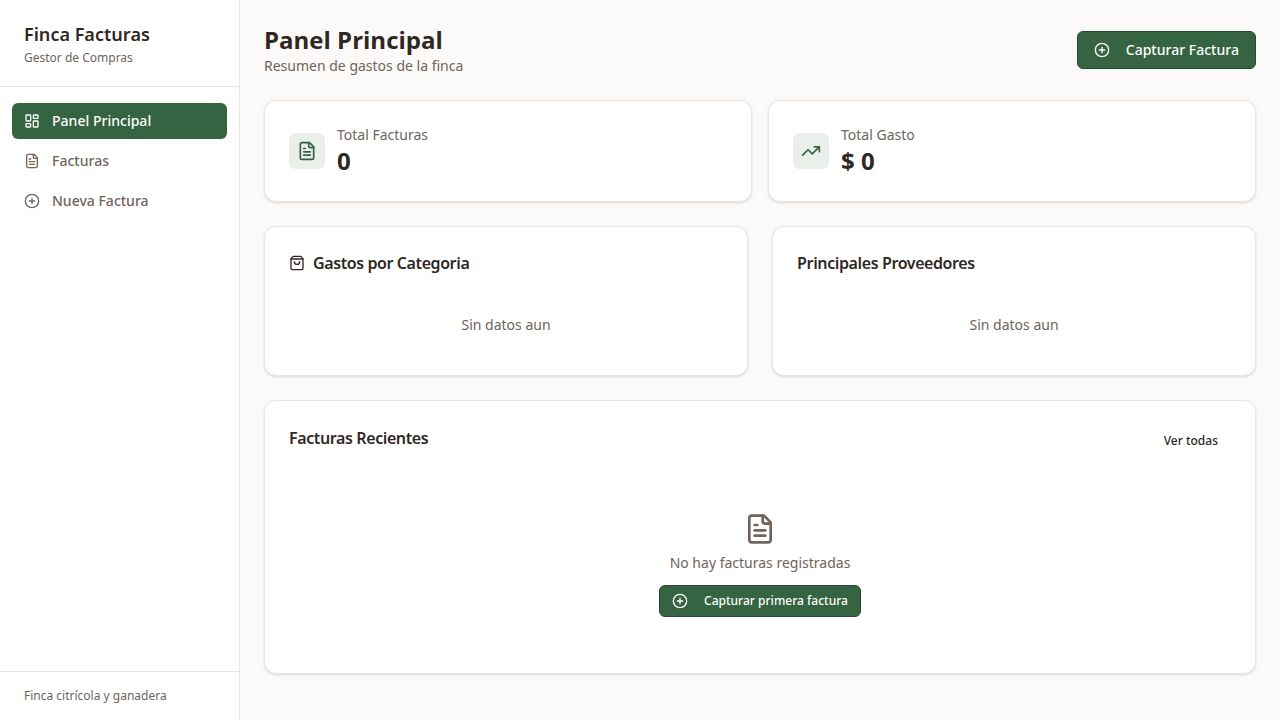
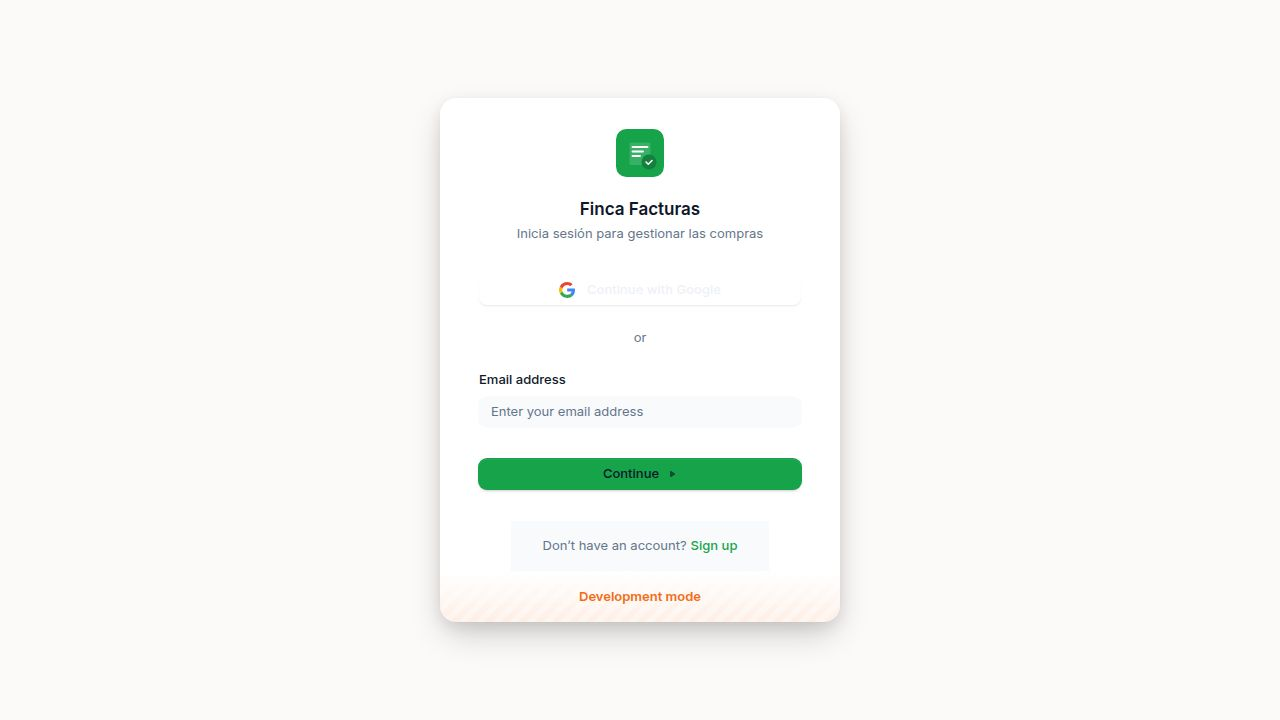
Add mandatory field validation to the new invoice form
Implement frontend validation for all header fields and individual item fields in the new invoice form. Fields marked as required will now display a red border and a "Campo requerido" message if left empty when attempting to save. A toast notification will also appear, preventing the invoice from being saved until all mandatory fields are completed.

Replit-Commit-Author: Agent
Replit-Commit-Session-Id: d9045a1c-a8dd-442b-99ed-3cd4f1b10021
Replit-Commit-Checkpoint-Type: full_checkpoint
Replit-Commit-Event-Id: d589d007-2d7a-4093-9ce4-2aec323ea90e
Replit-Commit-Screenshot-Url: https://storage.googleapis.com/screenshot-production-us-central1/884ce998-dde4-4766-95e8-f70527e4d566/d9045a1c-a8dd-442b-99ed-3cd4f1b10021/ijIDs6Q
Replit-Helium-Checkpoint-Created: true

diff --git a/artifacts/finca-facturas/src/pages/invoice-new.tsx b/artifacts/finca-facturas/src/pages/invoice-new.tsx
@@ -16,6 +16,7 @@ import {
 import { Card, CardContent, CardHeader, CardTitle } from "@/components/ui/card";
 import { Badge } from "@/components/ui/badge";
 import { Skeleton } from "@/components/ui/skeleton";
+import { cn } from "@/lib/utils";
 import { Camera, Upload, Plus, Trash2, ArrowLeft, Loader2, CheckCircle, ShieldCheck } from "lucide-react";
 import { useToast } from "@/hooks/use-toast";
 import { CATEGORY_OPTIONS } from "@/lib/categories";
@@ -60,7 +61,7 @@ export function InvoiceNew() {
   const [items, setItems] = useState<ItemRow[]>([emptyItem()]);
   const [extracting, setExtracting] = useState(false);
   const [extracted, setExtracted] = useState(false);
-
+  const [showErrors, setShowErrors] = useState(false);
   const [validating, setValidating] = useState(false);
 
   const extractMutation = useExtractInvoiceData();
@@ -185,32 +186,51 @@ export function InvoiceNew() {
     setItems(items.filter((_, i) => i !== idx));
   };
 
+  const isItemValid = (item: ItemRow) =>
+    item.name.trim() && item.description.trim() && item.quantity && item.unit.trim() && item.unitPrice && item.totalPrice;
+
   const handleSave = () => {
-    if (!supplier.trim()) {
-      toast({ title: "El proveedor es requerido", variant: "destructive" });
+    setShowErrors(true);
+
+    const headerInvalid =
+      !supplier.trim() ||
+      !invoiceNumber.trim() ||
+      !date ||
+      !buyer ||
+      !totalAmount ||
+      !description.trim() ||
+      !notes.trim();
+
+    const validItems = items.filter((i) => i.name.trim() || i.description.trim());
+    const itemsInvalid = validItems.length === 0 || validItems.some((i) => !isItemValid(i));
+
+    if (headerInvalid || itemsInvalid) {
+      toast({
+        title: "Campos incompletos",
+        description: "Completa todos los campos obligatorios antes de guardar.",
+        variant: "destructive",
+      });
       return;
     }
-
-    const filteredItems = items.filter((item) => item.name.trim() || item.description.trim());
 
     createMutation.mutate({
       data: {
         supplier: supplier.trim(),
-        invoiceNumber: invoiceNumber.trim() || null,
-        date: date || null,
+        invoiceNumber: invoiceNumber.trim(),
+        date,
         category,
-        totalAmount: totalAmount ? parseFloat(totalAmount) : null,
+        totalAmount: parseFloat(totalAmount),
         imageBase64: imageBase64 || null,
-        description: description.trim() || null,
-        notes: notes.trim() || null,
-        buyer: buyer || null,
-        items: filteredItems.map((item) => ({
-          name: item.name.trim() || item.description.trim(),
-          description: item.description.trim() || item.name.trim(),
-          quantity: item.quantity ? parseFloat(item.quantity) : null,
-          unit: item.unit.trim() || null,
-          unitPrice: item.unitPrice ? parseFloat(item.unitPrice) : null,
-          totalPrice: item.totalPrice ? parseFloat(item.totalPrice) : null,
+        description: description.trim(),
+        notes: notes.trim(),
+        buyer,
+        items: validItems.map((item) => ({
+          name: item.name.trim(),
+          description: item.description.trim(),
+          quantity: parseFloat(item.quantity),
+          unit: item.unit.trim(),
+          unitPrice: parseFloat(item.unitPrice),
+          totalPrice: parseFloat(item.totalPrice),
         })),
       },
     });
@@ -339,30 +359,36 @@ export function InvoiceNew() {
                 onChange={(e) => setSupplier(e.target.value)}
                 placeholder="Nombre de la ferreteria o tienda"
                 data-testid="input-supplier"
+                className={cn(showErrors && !supplier.trim() && "border-red-500 focus-visible:ring-red-500")}
               />
+              {showErrors && !supplier.trim() && <p className="text-xs text-red-500">Campo requerido</p>}
             </div>
             <div className="space-y-1.5">
-              <Label htmlFor="invoiceNumber">Numero de Factura</Label>
+              <Label htmlFor="invoiceNumber">Numero de Factura *</Label>
               <Input
                 id="invoiceNumber"
                 value={invoiceNumber}
                 onChange={(e) => setInvoiceNumber(e.target.value)}
                 placeholder="Ej: 001-2024"
                 data-testid="input-invoice-number"
+                className={cn(showErrors && !invoiceNumber.trim() && "border-red-500 focus-visible:ring-red-500")}
               />
+              {showErrors && !invoiceNumber.trim() && <p className="text-xs text-red-500">Campo requerido</p>}
             </div>
             <div className="space-y-1.5">
-              <Label htmlFor="date">Fecha de Compra</Label>
+              <Label htmlFor="date">Fecha de Compra *</Label>
               <Input
                 id="date"
                 type="date"
                 value={date}
                 onChange={(e) => setDate(e.target.value)}
                 data-testid="input-date"
+                className={cn(showErrors && !date && "border-red-500 focus-visible:ring-red-500")}
               />
+              {showErrors && !date && <p className="text-xs text-red-500">Campo requerido</p>}
             </div>
             <div className="space-y-1.5">
-              <Label htmlFor="category">Categoria</Label>
+              <Label htmlFor="category">Categoria *</Label>
               <Select value={category} onValueChange={setCategory}>
                 <SelectTrigger id="category" data-testid="select-category">
                   <SelectValue />
@@ -375,9 +401,13 @@ export function InvoiceNew() {
               </Select>
             </div>
             <div className="space-y-1.5">
-              <Label htmlFor="buyer">Comprador</Label>
+              <Label htmlFor="buyer">Comprador *</Label>
               <Select value={buyer} onValueChange={setBuyer}>
-                <SelectTrigger id="buyer" data-testid="select-buyer">
+                <SelectTrigger
+                  id="buyer"
+                  data-testid="select-buyer"
+                  className={cn(showErrors && !buyer && "border-red-500 focus-visible:ring-red-500")}
+                >
                   <SelectValue placeholder="Seleccionar..." />
                 </SelectTrigger>
                 <SelectContent>
@@ -386,9 +416,10 @@ export function InvoiceNew() {
                   ))}
                 </SelectContent>
               </Select>
+              {showErrors && !buyer && <p className="text-xs text-red-500">Campo requerido</p>}
             </div>
             <div className="space-y-1.5">
-              <Label htmlFor="totalAmount">Total (pesos colombianos)</Label>
+              <Label htmlFor="totalAmount">Total (pesos colombianos) *</Label>
               <Input
                 id="totalAmount"
                 type="number"
@@ -396,12 +427,14 @@ export function InvoiceNew() {
                 onChange={(e) => setTotalAmount(e.target.value)}
                 placeholder="Ej: 85000"
                 data-testid="input-total-amount"
+                className={cn(showErrors && !totalAmount && "border-red-500 focus-visible:ring-red-500")}
               />
+              {showErrors && !totalAmount && <p className="text-xs text-red-500">Campo requerido</p>}
             </div>
           </div>
           <div className="space-y-1.5">
             <div className="flex items-center justify-between">
-              <Label htmlFor="description">Descripción</Label>
+              <Label htmlFor="description">Descripción *</Label>
               {extracting && (
                 <span className="text-xs text-muted-foreground flex items-center gap-1">
                   <Loader2 className="h-3 w-3 animate-spin" /> Generando...
@@ -415,10 +448,12 @@ export function InvoiceNew() {
               placeholder="El modelo de IA generará una descripción automáticamente al cargar la foto"
               rows={3}
               data-testid="input-description"
+              className={cn(showErrors && !description.trim() && "border-red-500 focus-visible:ring-red-500")}
             />
+            {showErrors && !description.trim() && <p className="text-xs text-red-500">Campo requerido</p>}
           </div>
           <div className="space-y-1.5">
-            <Label htmlFor="notes">Notas</Label>
+            <Label htmlFor="notes">Notas *</Label>
             <Textarea
               id="notes"
               value={notes}
@@ -426,7 +461,9 @@ export function InvoiceNew() {
               placeholder="Observaciones adicionales"
               rows={2}
               data-testid="input-notes"
+              className={cn(showErrors && !notes.trim() && "border-red-500 focus-visible:ring-red-500")}
             />
+            {showErrors && !notes.trim() && <p className="text-xs text-red-500">Campo requerido</p>}
           </div>
         </CardContent>
       </Card>
@@ -452,7 +489,10 @@ export function InvoiceNew() {
                 </tr>
               </thead>
               <tbody className="space-y-2" data-testid="table-items">
-                {items.map((item, idx) => (
+                {items.map((item, idx) => {
+                  const hasContent = item.name.trim() || item.description.trim();
+                  const showItemErr = showErrors && hasContent;
+                  return (
                   <tr key={idx} data-testid={`row-item-${idx}`}>
                     <td className="pr-2 py-1">
                       <Input
@@ -460,6 +500,7 @@ export function InvoiceNew() {
                         onChange={(e) => updateItem(idx, "name", e.target.value)}
                         placeholder="Ej: Jeringa 5ml"
                         data-testid={`input-item-name-${idx}`}
+                        className={cn(showItemErr && !item.name.trim() && "border-red-500 focus-visible:ring-red-500")}
                       />
                     </td>
                     <td className="pr-2 py-1">
@@ -468,6 +509,7 @@ export function InvoiceNew() {
                         onChange={(e) => updateItem(idx, "description", e.target.value)}
                         placeholder="Descripcion completa de la factura"
                         data-testid={`input-item-description-${idx}`}
+                        className={cn(showItemErr && !item.description.trim() && "border-red-500 focus-visible:ring-red-500")}
                       />
                     </td>
                     <td className="pr-2 py-1">
@@ -477,6 +519,7 @@ export function InvoiceNew() {
                         onChange={(e) => updateItem(idx, "quantity", e.target.value)}
                         placeholder="0"
                         data-testid={`input-item-quantity-${idx}`}
+                        className={cn(showItemErr && !item.quantity && "border-red-500 focus-visible:ring-red-500")}
                       />
                     </td>
                     <td className="pr-2 py-1">
@@ -485,6 +528,7 @@ export function InvoiceNew() {
                         onChange={(e) => updateItem(idx, "unit", e.target.value)}
                         placeholder="und"
                         data-testid={`input-item-unit-${idx}`}
+                        className={cn(showItemErr && !item.unit.trim() && "border-red-500 focus-visible:ring-red-500")}
                       />
                     </td>
                     <td className="pr-2 py-1">
@@ -494,6 +538,7 @@ export function InvoiceNew() {
                         onChange={(e) => updateItem(idx, "unitPrice", e.target.value)}
                         placeholder="0"
                         data-testid={`input-item-unit-price-${idx}`}
+                        className={cn(showItemErr && !item.unitPrice && "border-red-500 focus-visible:ring-red-500")}
                       />
                     </td>
                     <td className="pr-2 py-1">
@@ -503,6 +548,7 @@ export function InvoiceNew() {
                         onChange={(e) => updateItem(idx, "totalPrice", e.target.value)}
                         placeholder="0"
                         data-testid={`input-item-total-price-${idx}`}
+                        className={cn(showItemErr && !item.totalPrice && "border-red-500 focus-visible:ring-red-500")}
                       />
                     </td>
                     <td className="py-1">
@@ -519,7 +565,8 @@ export function InvoiceNew() {
                       )}
                     </td>
                   </tr>
-                ))}
+                  );
+                })}
               </tbody>
             </table>
           </div>